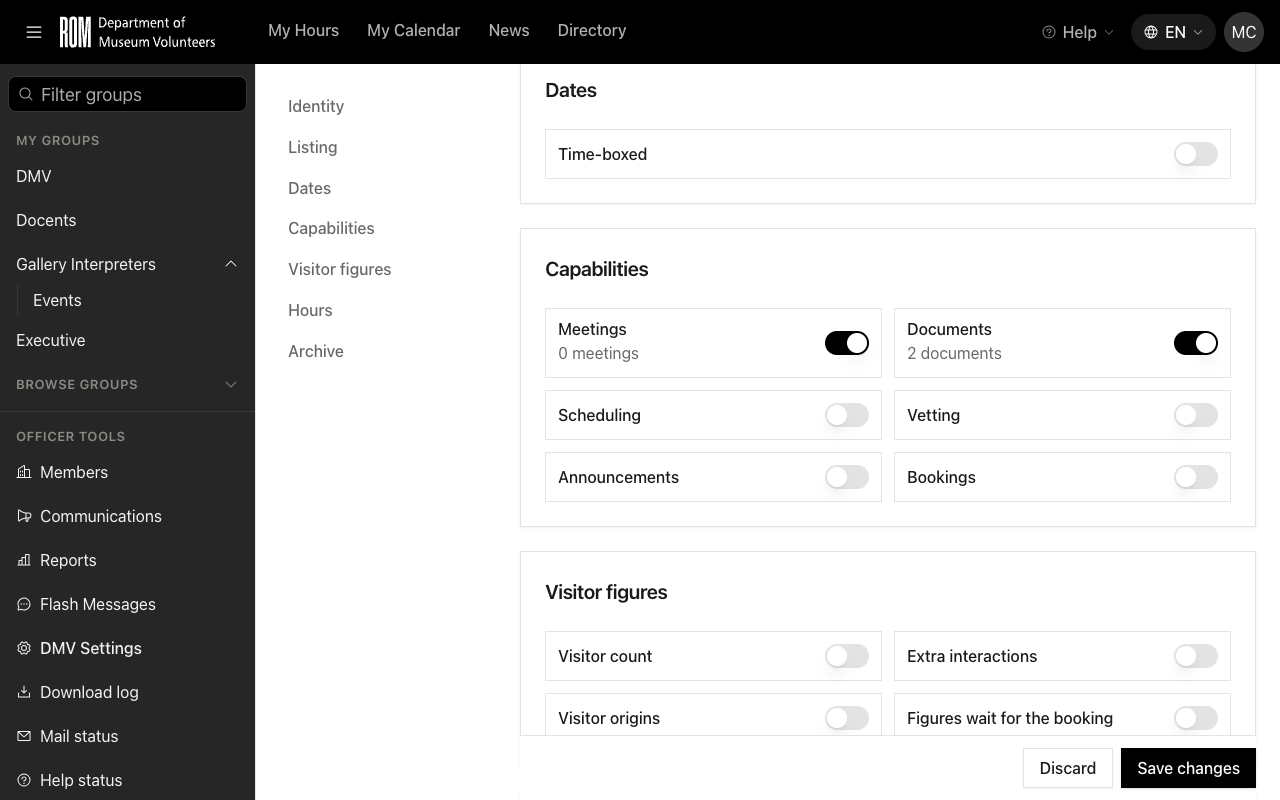
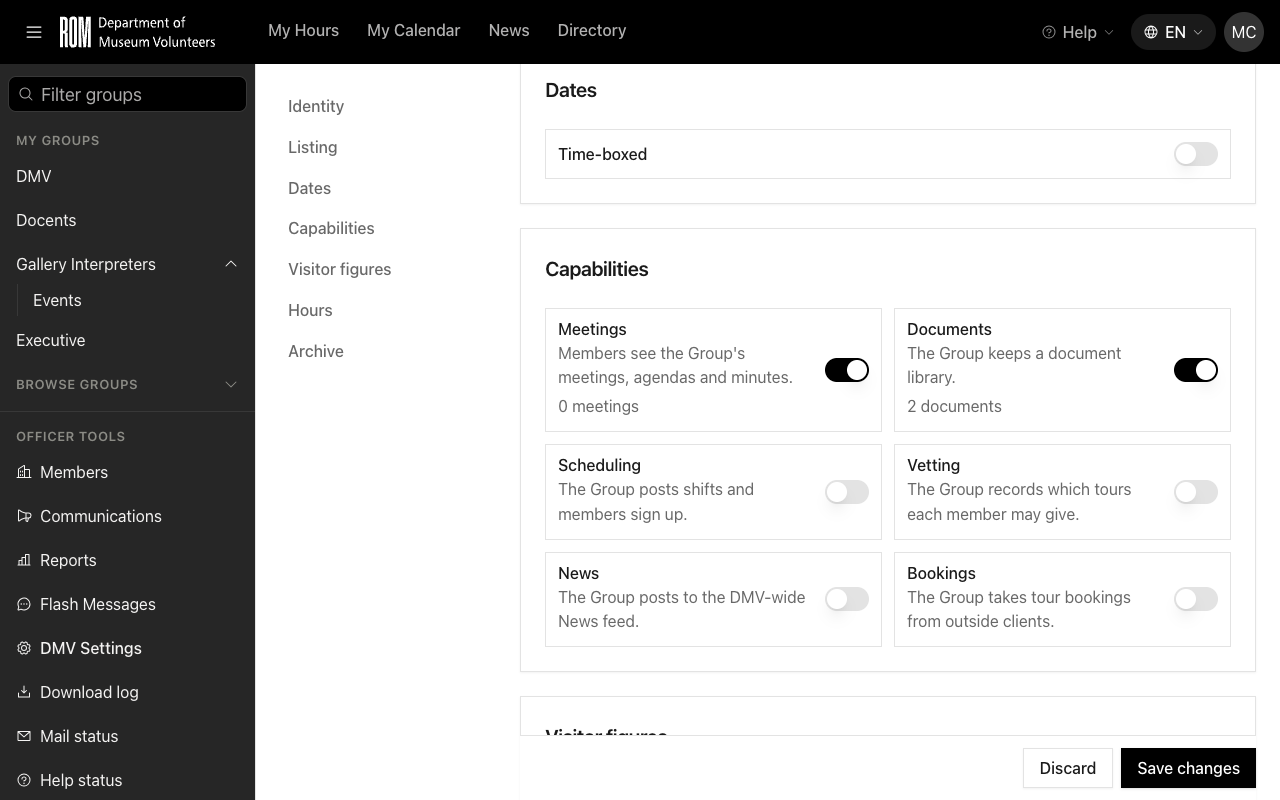
DMV Settings: rename Announcements to News, describe each Group switch (#854) (#855)
## Summary

Closes #854.

- The `has_announcements` switch on a Group's DMV Settings form reads
**News** (fr: **Nouvelles**). The Groups tree badge changes from `A` to
`N`, and the legend follows.
- Each of the 6 capability switches and 4 visitor-figure switches shows
a one-line description under its label, in en and fr
(`dmv_settings.capability_help.*`, `dmv_settings.collection_help.*`).
- `DmvSettingsFlagRow` takes a new `description` prop. The Switch points
to it with `aria-describedby`. The record count line stays under the
description.
- Code names do not change: `has_announcements`, the `news` relation,
the News-editor role and the ADRs stay as they are.
- New `DmvSettingsSwitchCopyTest` checks that the label reads News and
that every capability and collection flag has a description in both
languages.
- Re-shot `administer-groups` `01` (tree with the N badge) and `04`
(Capabilities card with descriptions).

Differences from the ticket:

- The ticket asked for en and fr shots. The runner shoots English only
into one shared folder, so there is no fr set to re-shoot.

## Help article

- [x] Help article added (or updated) for this change.
- [ ] Not applicable

Changed region(s): [[0.4375, 0.4062, 0.9688, 0.6562], [0.4062, 0.6875, 0.9688, 0.9375]]

diff --git a/resources/js/components/DmvSettingsFlagRow.vue b/resources/js/components/DmvSettingsFlagRow.vue
@@ -1,12 +1,13 @@
 <script setup lang="ts">
-// A Group flag as a full-width row (#848): the label, an optional line under it (the records
-// behind a capability, #844), and a Switch on the right. A guard error tints the row and lands
+// A Group flag as a full-width row (#848): the label, an optional description of what the flag
+// does (#854), an optional line under it (the records behind a capability, #844), and a Switch on
+// the right. The Switch is described by the description. A guard error tints the row and lands
 // under it, announced as an alert. The row's padding gives the Switch its touch height.
 import InputError from '@/components/InputError.vue';
 import { Label } from '@/components/ui/label';
 import { Switch } from '@/components/ui/switch';
 
-defineProps<{ id: string; label: string; note?: string | null; error?: string }>();
+defineProps<{ id: string; label: string; description?: string; note?: string | null; error?: string }>();
 const checked = defineModel<boolean>({ required: true });
 </script>
 
@@ -15,9 +16,15 @@ const checked = defineModel<boolean>({ required: true });
         <div class="flex items-center justify-between gap-4">
             <div class="flex min-w-0 flex-col gap-1">
                 <Label :for="id">{{ label }}</Label>
+                <p v-if="description" :id="`${id}-description`" class="text-muted-foreground text-sm">{{ description }}</p>
                 <p v-if="note" class="text-muted-foreground text-sm">{{ note }}</p>
             </div>
-            <Switch :id="id" :checked="checked" @update:checked="(on: boolean) => (checked = on)" />
+            <Switch
+                :id="id"
+                :checked="checked"
+                :aria-describedby="description ? `${id}-description` : undefined"
+                @update:checked="(on: boolean) => (checked = on)"
+            />
         </div>
         <InputError :message="error" role="alert" />
     </div>

diff --git a/resources/js/pages/officer/settings/Group.vue b/resources/js/pages/officer/settings/Group.vue
@@ -338,6 +338,7 @@ const countLine = (flag: Capability): string | null => {
                                 :key="flag"
                                 v-model="form[flag]"
                                 :label="trans(`dmv_settings.capability.${flag}`)"
+                                :description="trans(`dmv_settings.capability_help.${flag}`)"
                                 :note="countLine(flag)"
                                 :error="errors[flag]"
                             />
@@ -350,6 +351,7 @@ const countLine = (flag: Capability): string | null => {
                                 :key="flag"
                                 v-model="form[flag]"
                                 :label="trans(`dmv_settings.collection.${flag}`)"
+                                :description="trans(`dmv_settings.collection_help.${flag}`)"
                                 :error="errors[flag]"
                             />
                         </DmvSettingsSection>

diff --git a/lang/fr/dmv_settings.php b/lang/fr/dmv_settings.php
@@ -31,7 +31,7 @@ return [
             'has_documents' => 'D',
             'has_scheduling' => 'S',
             'has_vetting' => 'V',
-            'has_announcements' => 'A',
+            'has_announcements' => 'N',
             'has_bookings' => 'B',
         ],
         'capability_on' => ':capability : activée',
@@ -108,14 +108,30 @@ return [
         'has_documents' => 'Documents',
         'has_scheduling' => 'Horaire',
         'has_vetting' => 'Vérification',
-        'has_announcements' => 'Annonces',
+        'has_announcements' => 'Nouvelles',
         'has_bookings' => 'Réservations',
+    ],
+    // Une ligne sous chaque interrupteur de fonction (#854).
+    'capability_help' => [
+        'has_meetings' => 'Les membres voient les réunions, ordres du jour et procès-verbaux du groupe.',
+        'has_documents' => 'Le groupe tient une bibliothèque de documents.',
+        'has_scheduling' => 'Le groupe publie des quarts et les membres s’y inscrivent.',
+        'has_vetting' => 'Le groupe note les visites que chaque membre peut donner.',
+        'has_announcements' => 'Le groupe publie dans le fil de nouvelles du DMV.',
+        'has_bookings' => 'Le groupe accepte les réservations de visites de clients externes.',
     ],
     'collection' => [
         'collects_visitor_count' => 'Nombre de visiteur·euses',
         'collects_extra_interactions' => 'Interactions supplémentaires',
         'collects_visitor_provenance' => 'Provenance des visiteur·euses',
         'visitor_figures_await_booking' => 'Les chiffres attendent la réservation',
+    ],
+    // Une ligne sous chaque interrupteur de chiffres de fréquentation (#854).
+    'collection_help' => [
+        'collects_visitor_count' => 'Les membres indiquent le nombre de visiteur·euses servi·es à chaque quart.',
+        'collects_extra_interactions' => 'Les membres indiquent aussi les visiteur·euses servi·es hors de leur visite.',
+        'collects_visitor_provenance' => 'Les membres répartissent les visiteur·euses de chaque quart selon leur provenance.',
+        'visitor_figures_await_booking' => 'Le rapport de fréquentation indique que les chiffres du groupe sont incomplets tant que les réservations ne sont pas comptées.',
     ],
     'visibility' => [
         'public' => 'Public',

diff --git a/lang/en/dmv_settings.php b/lang/en/dmv_settings.php
@@ -30,7 +30,7 @@ return [
             'has_documents' => 'D',
             'has_scheduling' => 'S',
             'has_vetting' => 'V',
-            'has_announcements' => 'A',
+            'has_announcements' => 'N',
             'has_bookings' => 'B',
         ],
         'capability_on' => ':capability: on',
@@ -107,14 +107,30 @@ return [
         'has_documents' => 'Documents',
         'has_scheduling' => 'Scheduling',
         'has_vetting' => 'Vetting',
-        'has_announcements' => 'Announcements',
+        'has_announcements' => 'News',
         'has_bookings' => 'Bookings',
+    ],
+    // One line under each capability switch (#854).
+    'capability_help' => [
+        'has_meetings' => 'Members see the Group\'s meetings, agendas and minutes.',
+        'has_documents' => 'The Group keeps a document library.',
+        'has_scheduling' => 'The Group posts shifts and members sign up.',
+        'has_vetting' => 'The Group records which tours each member may give.',
+        'has_announcements' => 'The Group posts to the DMV-wide News feed.',
+        'has_bookings' => 'The Group takes tour bookings from outside clients.',
     ],
     'collection' => [
         'collects_visitor_count' => 'Visitor count',
         'collects_extra_interactions' => 'Extra interactions',
         'collects_visitor_provenance' => 'Visitor origins',
         'visitor_figures_await_booking' => 'Figures wait for the booking',
+    ],
+    // One line under each visitor-figure switch (#854).
+    'collection_help' => [
+        'collects_visitor_count' => 'Members enter the number of visitors they served on each shift.',
+        'collects_extra_interactions' => 'Members also enter visitors they served outside their tour.',
+        'collects_visitor_provenance' => 'Members split each shift\'s visitors by where they came from.',
+        'visitor_figures_await_booking' => 'The visitor report marks this Group\'s figures as incomplete until bookings are counted.',
     ],
     'visibility' => [
         'public' => 'Public',

diff --git a/tests/Feature/DmvSettingsSwitchCopyTest.php b/tests/Feature/DmvSettingsSwitchCopyTest.php
@@ -1,0 +1,27 @@
+<?php
+
+use App\Models\Group;
+use Illuminate\Support\Facades\Lang;
+
+/*
+ * The Group switches on the DMV Settings form (#854, PRD #836): the announcements capability
+ * reads "News", and every capability and visitor-figure switch carries a one-line description
+ * in both languages, so a new flag cannot ship without one.
+ */
+
+it('labels the announcements capability News', function (string $locale, string $label, string $letter) {
+    expect(__('dmv_settings.capability.has_announcements', [], $locale))->toBe($label)
+        ->and(__('dmv_settings.tree.letter.has_announcements', [], $locale))->toBe($letter);
+})->with([
+    'en' => ['en', 'News', 'N'],
+    'fr' => ['fr', 'Nouvelles', 'N'],
+]);
+
+it('describes every Group switch in both languages', function (string $locale) {
+    foreach (Group::CAPABILITY_FLAGS as $flag) {
+        expect(Lang::has("dmv_settings.capability_help.{$flag}", $locale, false))->toBeTrue("{$locale} capability_help.{$flag}");
+    }
+    foreach (Group::COLLECTION_FLAGS as $flag) {
+        expect(Lang::has("dmv_settings.collection_help.{$flag}", $locale, false))->toBeTrue("{$locale} collection_help.{$flag}");
+    }
+})->with(['en', 'fr']);
